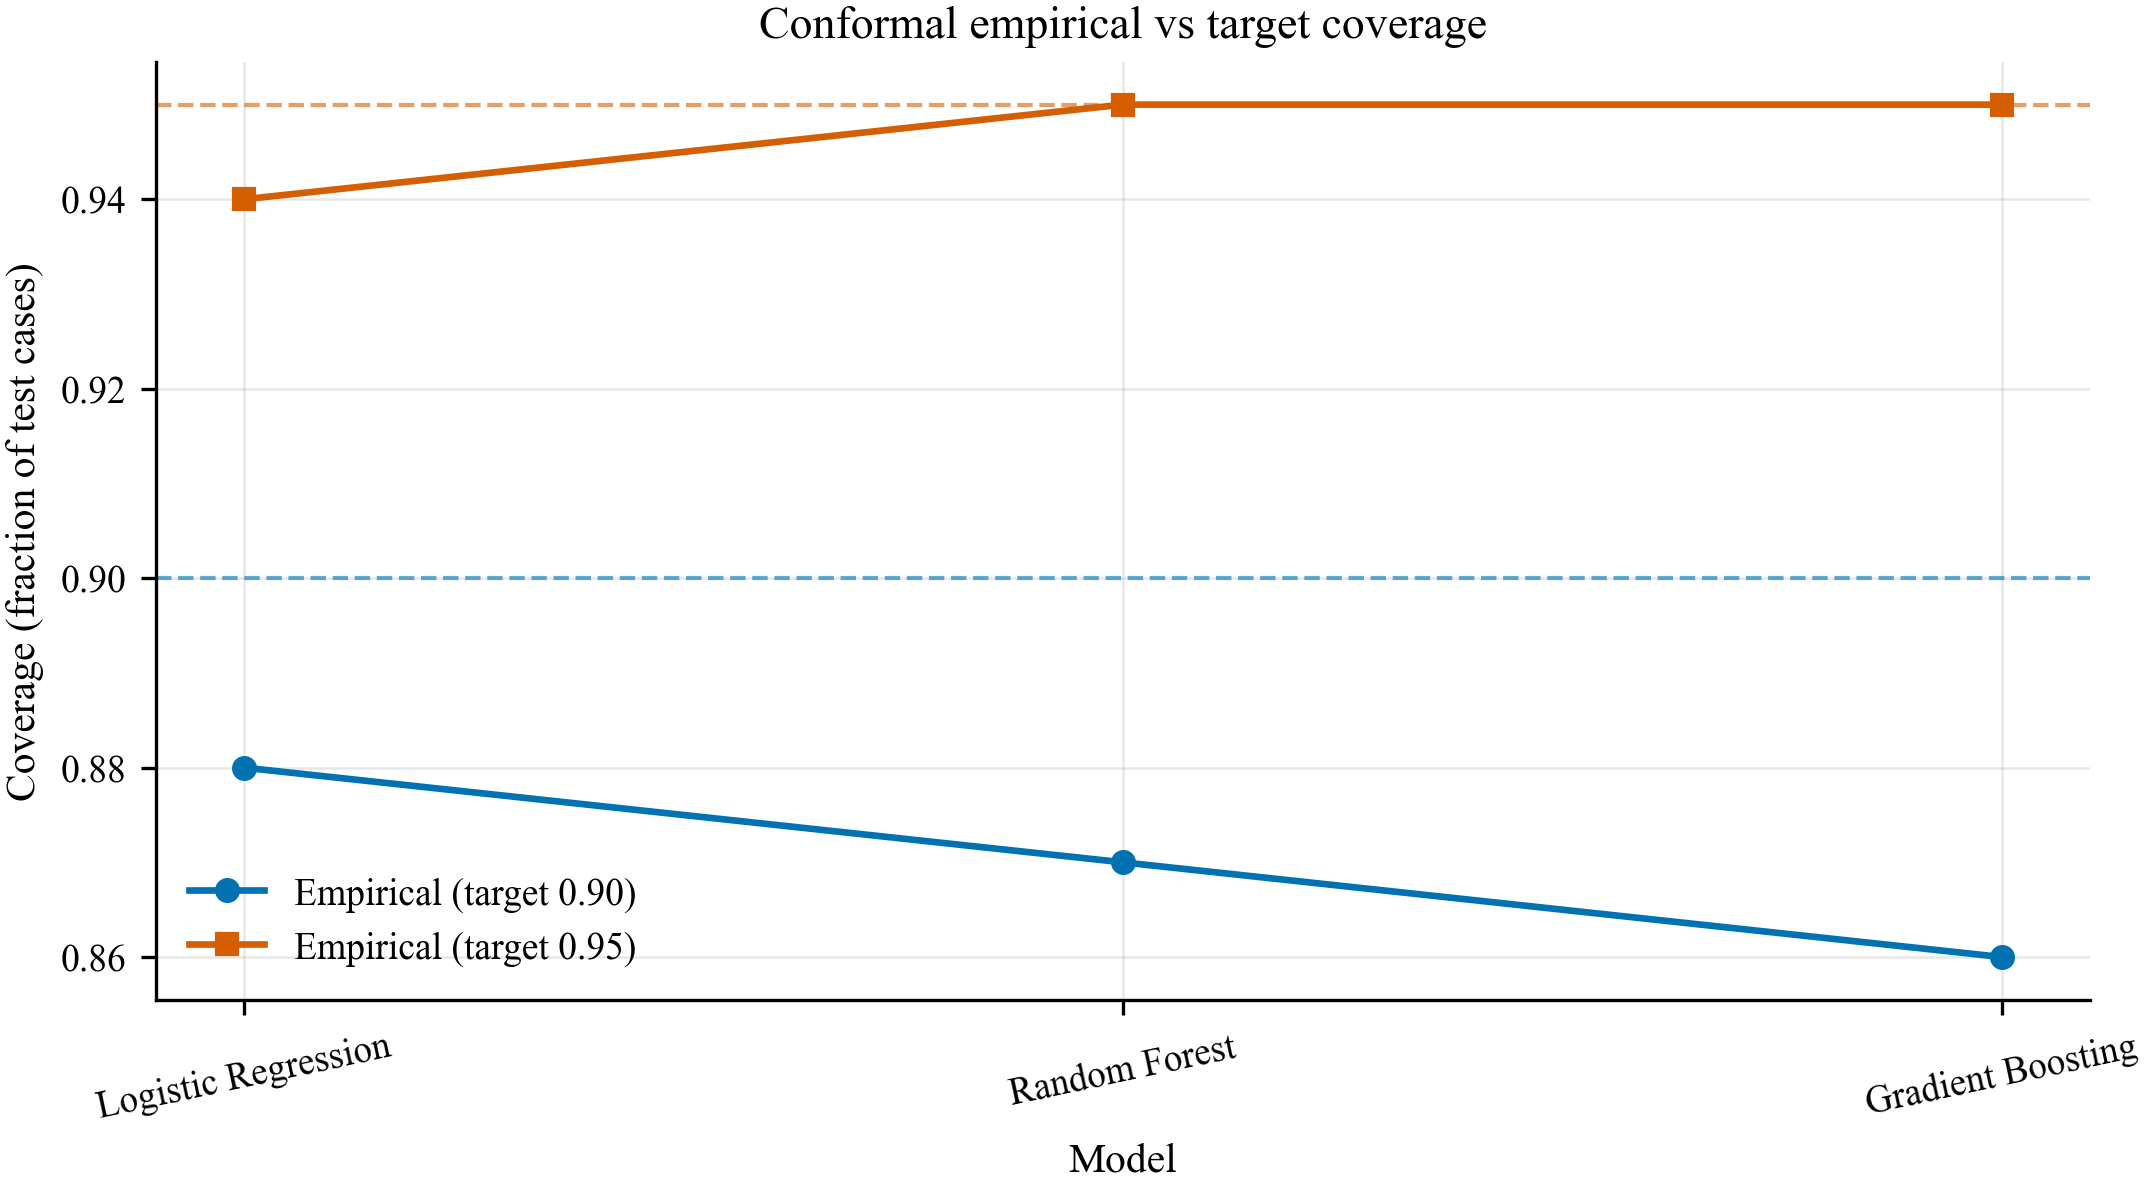
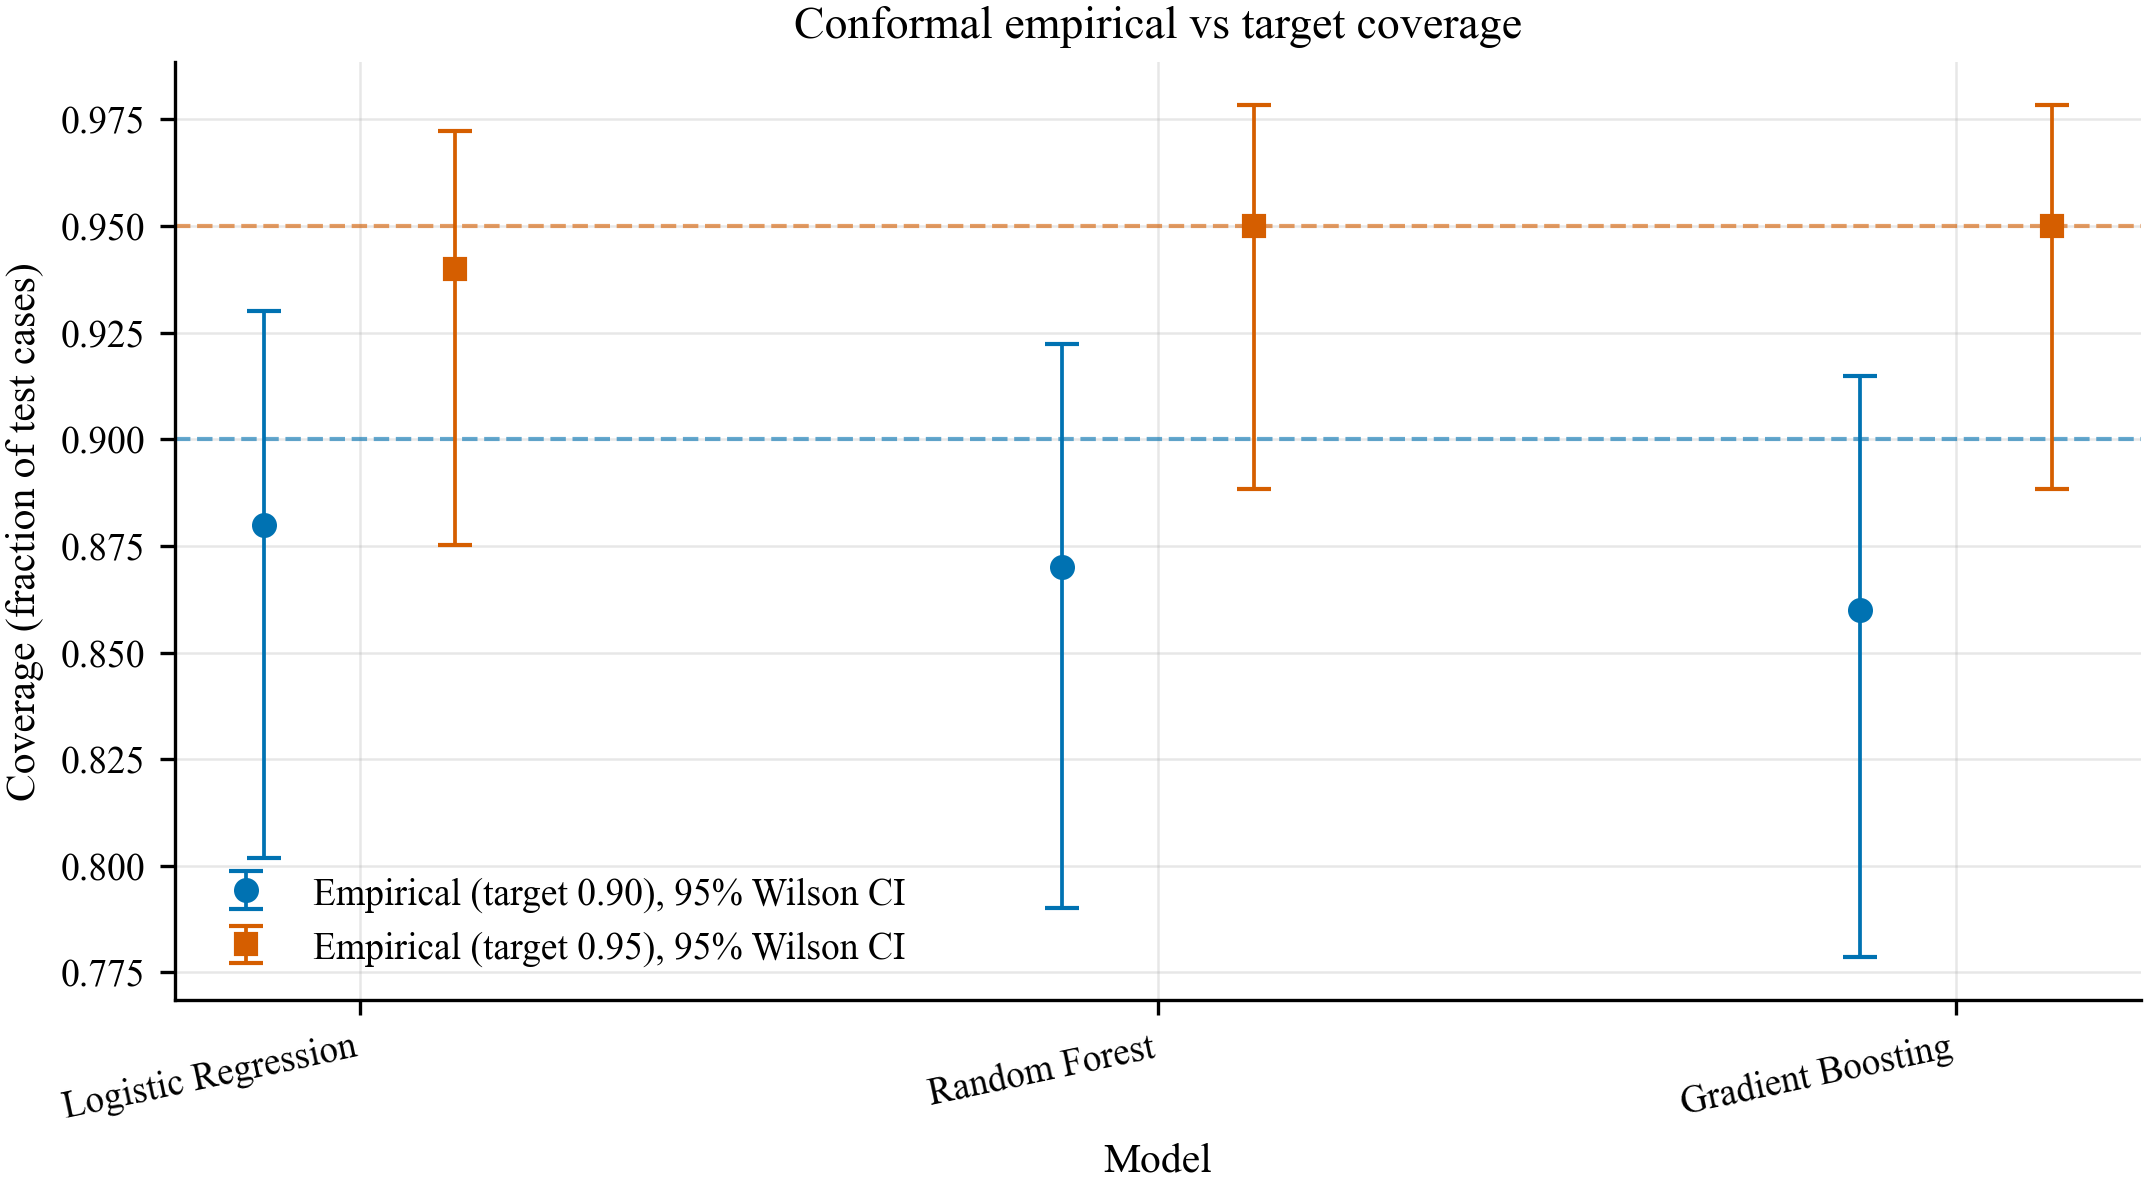
Consolidate shared visualization utility and upgrade charts to publication standard
- Vendor a single shared pubviz.py (palette, style, save, results IO, schematic
  primitives) byte-identical across repos; remove duplicated inline style blocks
- Replace weak chart types (radar, pie/donut, 3D-for-2D, dual-axis) with
  perceptually sound encodings (dot plots, small multiples, aligned panels)
- Add uncertainty (bootstrap / Wilson CIs) to effect and proportion estimates
- Add missing high-value figures (risk-coverage, calibration/reliability,
  decision-curve, behaviour-compliance) computed from results/ (seed 42)
- Annotate honest limitations on figures; regenerate all at 300 dpi (PDF + PNG)

diff --git a/scripts/pubviz.py b/scripts/pubviz.py
@@ -1,0 +1,118 @@
+#!/usr/bin/env python3
+"""
+pubviz.py -- canonical Top-Tier visualization utilities shared, byte-identical,
+by every figure script across the ChatchaiTritham PhD reproducibility repos.
+
+Mirrors _management/FIGURE_STYLE.md. One look across all papers:
+  * Okabe-Ito colour-blind-safe palette (consistent series order)
+  * Times serif fonts, STIX math; spines off; light grid; constrained layout
+  * 300 dpi PNG + vector PDF, tight bbox
+  * helpers: results_dir / load_results / require_results / save_fig
+  * schematic primitives: add_box / arrow
+
+Location-independent: it finds results/ by walking up from the current working
+directory (scripts are run from the repo root). Vendor this file UNCHANGED into
+each repo; an identity gate asserts every copy matches this source.
+
+Data must always be loaded from results/ at run time -- never hardcode numbers.
+"""
+from __future__ import annotations
+
+import json
+from pathlib import Path
+
+import matplotlib as mpl
+import matplotlib.pyplot as plt
+from matplotlib.patches import FancyArrowPatch, FancyBboxPatch
+
+# Color-blind-safe (Okabe-Ito) -- use in this order.
+PALETTE = ["#0072B2", "#D55E00", "#009E73", "#CC79A7",
+           "#E69F00", "#56B4E9", "#000000"]
+
+# Semantic aliases drawn from the same palette (keeps DAGs/bars/schematics consistent).
+C_TREATMENT = PALETTE[0]   # blue
+C_OUTCOME = PALETTE[1]     # vermillion
+C_CONFOUNDER = PALETTE[4]  # orange
+C_MEDIATOR = PALETTE[2]    # bluish green
+C_NEUTRAL = "#555555"      # grey -- naive / reference / baseline
+
+
+def apply_pub_style():
+    """Apply the canonical publication rcParams (idempotent)."""
+    mpl.rcParams.update({
+        "figure.dpi": 150, "savefig.dpi": 300, "savefig.bbox": "tight",
+        "savefig.pad_inches": 0.02,
+        "font.family": "serif",
+        "font.serif": ["Times New Roman", "Times", "DejaVu Serif"],
+        "mathtext.fontset": "stix", "pdf.fonttype": 42, "ps.fonttype": 42,
+        "font.size": 10, "axes.titlesize": 11, "axes.labelsize": 10,
+        "xtick.labelsize": 9, "ytick.labelsize": 9, "legend.fontsize": 9,
+        "axes.spines.top": False, "axes.spines.right": False,
+        "axes.linewidth": 0.8, "axes.grid": True, "axes.axisbelow": True,
+        "grid.alpha": 0.3, "grid.linewidth": 0.6,
+        "lines.linewidth": 1.6, "lines.markersize": 5,
+        "legend.frameon": False, "figure.constrained_layout.use": True,
+        "axes.prop_cycle": mpl.cycler(color=PALETTE),
+    })
+
+
+def repo_root(start: Path | None = None) -> Path:
+    """Nearest ancestor containing results/ or .git (falls back to cwd)."""
+    here = Path(start or Path.cwd()).resolve()
+    for d in (here, *here.parents):
+        if (d / "results").is_dir() or (d / ".git").exists():
+            return d
+    return Path.cwd().resolve()
+
+
+def results_dir(start: Path | None = None) -> Path:
+    return repo_root(start) / "results"
+
+
+def load_results(name: str, start: Path | None = None):
+    """Load a results/ artifact by file name. .json -> obj; .csv -> list[dict]."""
+    p = results_dir(start) / name
+    if not p.exists():
+        raise FileNotFoundError(
+            f"missing results/{name} -- run the repo's run_all.py/run_eval.py "
+            f"(seed 42) to regenerate results/ before plotting.")
+    if p.suffix == ".json":
+        return json.loads(p.read_text(encoding="utf-8"))
+    import csv
+    with p.open(encoding="utf-8", newline="") as fh:
+        return list(csv.DictReader(fh))
+
+
+def require_results(*names: str, start: Path | None = None) -> None:
+    """Fail early with a clear hint if any results/ artifact is absent."""
+    missing = [n for n in names if not (results_dir(start) / n).exists()]
+    if missing:
+        raise FileNotFoundError(
+            "missing results artifacts: " + ", ".join(missing) +
+            " -- run the repo's reproduction script (seed 42) first.")
+
+
+def save_fig(fig, basename: str, out_dir="figures"):
+    """Save matched vector .pdf + 300-dpi .png (tight bbox, white bg)."""
+    out = Path(out_dir)
+    out.mkdir(parents=True, exist_ok=True)
+    for ext in ("pdf", "png"):
+        fig.savefig(out / f"{basename}.{ext}", bbox_inches="tight", facecolor="white")
+    print(f"saved: {basename}.pdf / .png  ->  {out}")
+
+
+def add_box(ax, xy, width, height, label, facecolor="#eef2f7",
+            edgecolor=PALETTE[0], textcolor="#1a1a1a", size=9):
+    """Rounded schematic box with centred label (for architecture diagrams)."""
+    box = FancyBboxPatch(xy, width, height, boxstyle="round,pad=0.012,rounding_size=0.02",
+                         linewidth=1.1, edgecolor=edgecolor, facecolor=facecolor, zorder=2)
+    ax.add_patch(box)
+    ax.text(xy[0] + width / 2, xy[1] + height / 2, label, ha="center", va="center",
+            fontsize=size, color=textcolor, zorder=3)
+    return box
+
+
+def arrow(ax, start, end, color="#555555", lw=1.35):
+    """Schematic arrow that shrinks off the box edges (no head-in-text overlap)."""
+    ax.add_patch(FancyArrowPatch(start, end, arrowstyle="-|>", mutation_scale=12,
+                                 lw=lw, color=color, shrinkA=4, shrinkB=4, zorder=1))

diff --git a/scripts/generate_results_figures.py b/scripts/generate_results_figures.py
@@ -11,6 +11,11 @@ Run ``python scripts/run_all.py`` first, then::
 
 Outputs (PNG + PDF) into ``figures/results/`` and records data provenance in
 ``figures/results/figure_provenance.csv``.
+
+Styling/IO go through the shared, byte-identical ``pubviz`` module (vendored as
+``scripts/pubviz.py``): ``apply_pub_style`` for the canonical top-tier rcParams,
+``save_fig`` for matched vector PDF + 300-dpi PNG, and ``PALETTE`` for the
+Okabe-Ito colour-blind-safe series order.
 """
 
 from __future__ import annotations
@@ -21,37 +26,15 @@ from pathlib import Path
 import matplotlib
 
 matplotlib.use("Agg")
-import matplotlib as mpl  # noqa: E402
 import matplotlib.pyplot as plt  # noqa: E402
 import numpy as np  # noqa: E402
 import pandas as pd  # noqa: E402
 
+from pubviz import apply_pub_style, save_fig, PALETTE, load_results, results_dir  # noqa: E402
+
 ROOT = Path(__file__).resolve().parents[1]
 RESULTS = ROOT / "results"
 OUTDIR = ROOT / "figures" / "results"
-DPI = 300
-
-# Color-blind-safe (Okabe-Ito) — canonical shared palette, use in this order.
-PALETTE = ["#0072B2", "#D55E00", "#009E73", "#CC79A7", "#E69F00", "#56B4E9", "#000000"]
-
-
-def apply_pub_style() -> None:
-    """Apply the canonical top-tier publication style (shared across all repos)."""
-    mpl.rcParams.update({
-        "figure.dpi": 150, "savefig.dpi": 300, "savefig.bbox": "tight",
-        "savefig.pad_inches": 0.02,
-        "font.family": "serif",
-        "font.serif": ["Times New Roman", "Times", "DejaVu Serif"],
-        "mathtext.fontset": "stix",
-        "font.size": 10, "axes.titlesize": 11, "axes.labelsize": 10,
-        "xtick.labelsize": 9, "ytick.labelsize": 9, "legend.fontsize": 9,
-        "axes.spines.top": False, "axes.spines.right": False,
-        "axes.linewidth": 0.8, "axes.grid": True,
-        "grid.alpha": 0.3, "grid.linewidth": 0.6,
-        "lines.linewidth": 1.6, "lines.markersize": 5,
-        "legend.frameon": False, "figure.constrained_layout.use": True,
-        "axes.prop_cycle": mpl.cycler(color=PALETTE),
-    })
 
 
 def _require(name: str) -> Path:
@@ -63,13 +46,28 @@ def _require(name: str) -> Path:
     return path
 
 
-def _save(fig, stem: str) -> tuple[str, str]:
-    png = OUTDIR / f"{stem}.png"
-    pdf = OUTDIR / f"{stem}.pdf"
-    fig.savefig(png, dpi=DPI, bbox_inches="tight")
-    fig.savefig(pdf, bbox_inches="tight")
+def _emit(fig, stem: str) -> tuple[str, str]:
+    """Save matched PDF + 300-dpi PNG via the shared helper; return repo-relative paths."""
+    save_fig(fig, stem, out_dir=OUTDIR)
     plt.close(fig)
-    return str(png.relative_to(ROOT)), str(pdf.relative_to(ROOT))
+    png = (OUTDIR / f"{stem}.png").relative_to(ROOT)
+    pdf = (OUTDIR / f"{stem}.pdf").relative_to(ROOT)
+    return str(png), str(pdf)
+
+
+def _wilson_ci(p: float, n: int, z: float = 1.96) -> tuple[float, float]:
+    """Wilson score interval for a proportion p estimated from n trials.
+
+    Coverage is the fraction of n_test cases covered, so its sampling
+    uncertainty is binomial; the Wilson interval is the standard, honest band
+    for a proportion. n is read from the computed results, never hardcoded.
+    """
+    if n <= 0:
+        return p, p
+    denom = 1.0 + z * z / n
+    center = (p + z * z / (2 * n)) / denom
+    half = (z * np.sqrt(p * (1 - p) / n + z * z / (4 * n * n))) / denom
+    return max(0.0, center - half), min(1.0, center + half)
 
 
 def fig_auroc_static_vs_temporal(prov: list) -> None:
@@ -95,7 +93,7 @@ def fig_auroc_static_vs_temporal(prov: list) -> None:
     ax.legend(loc="lower right")
     ax.grid(True, axis="y")
     ax.set_axisbelow(True)
-    png, pdf = _save(fig, "fig_auroc_static_vs_temporal")
+    png, pdf = _emit(fig, "fig_auroc_static_vs_temporal")
     prov.append(("F-AUROC", png, pdf, "results/model_metrics.csv"))
 
 
@@ -116,7 +114,7 @@ def fig_calibration(prov: list) -> None:
     ax.legend(loc="best")
     ax.grid(True)
     ax.set_axisbelow(True)
-    png, pdf = _save(fig, "fig_calibration_ece")
+    png, pdf = _emit(fig, "fig_calibration_ece")
     prov.append(("F-ECE", png, pdf, "results/model_metrics.csv"))
 
 
@@ -137,32 +135,54 @@ def fig_decision_curve(prov: list) -> None:
     ax.legend(loc="best")
     ax.grid(True, axis="y")
     ax.set_axisbelow(True)
-    png, pdf = _save(fig, "fig_decision_curve")
+    png, pdf = _emit(fig, "fig_decision_curve")
     prov.append(("F-DCA", png, pdf, "results/decision_curve.csv"))
 
 
 def fig_conformal(prov: list) -> None:
     df = pd.read_csv(_require("conformal.csv"))
+    # n_test per model backs the binomial (Wilson) CI on empirical coverage;
+    # read from the computed metrics table, never hardcoded.
+    metrics = pd.read_csv(_require("model_metrics.csv"))
+    n_by_model = (
+        metrics.groupby("model")["n_test"].max().astype(int).to_dict()
+    )
+
     fig, ax = plt.subplots(figsize=(7.2, 4.0))
     markers = ("o", "s", "^", "D")
-    for i, target in enumerate(sorted(df["target_coverage"].unique())):
-        sub = df[df["target_coverage"] == target]
+    targets = sorted(df["target_coverage"].unique())
+    models = list(dict.fromkeys(df["model"]))
+    labels = [m.replace("_", " ").title() for m in models]
+    xpos = np.arange(len(models))
+    # small horizontal offset per target so CI bars do not overlap
+    offsets = np.linspace(-0.12, 0.12, len(targets)) if len(targets) > 1 else [0.0]
+
+    for i, target in enumerate(targets):
+        sub = df[df["target_coverage"] == target].set_index("model")
         color = PALETTE[i % len(PALETTE)]
-        labels = [m.replace("_", " ").title() for m in sub["model"]]
-        ax.plot(
-            labels, sub["empirical_coverage"], marker=markers[i % len(markers)],
-            color=color, label=f"Empirical (target {target:.2f})",
+        emp = np.array([sub.loc[m, "empirical_coverage"] for m in models], float)
+        lo = np.empty_like(emp)
+        hi = np.empty_like(emp)
+        for j, m in enumerate(models):
+            l, h = _wilson_ci(emp[j], n_by_model.get(m, 0))
+            lo[j], hi[j] = l, h
+        yerr = np.vstack([emp - lo, hi - emp])
+        ax.errorbar(
+            xpos + offsets[i], emp, yerr=yerr, marker=markers[i % len(markers)],
+            ls="none", color=color, capsize=4, elinewidth=0.9,
+            label=f"Empirical (target {target:.2f}), 95% Wilson CI",
         )
         ax.axhline(target, ls="--", lw=1.0, color=color, alpha=0.6)
+    ax.set_xticks(xpos)
+    ax.set_xticklabels(labels, rotation=12, ha="right")
     ax.set_xlabel("Model")
     ax.set_ylabel("Coverage (fraction of test cases)")
     ax.set_title("Conformal empirical vs target coverage")
-    ax.tick_params(axis="x", rotation=12)
     ax.legend(loc="best")
     ax.grid(True)
     ax.set_axisbelow(True)
-    png, pdf = _save(fig, "fig_conformal_coverage")
-    prov.append(("F-CONF", png, pdf, "results/conformal.csv"))
+    png, pdf = _emit(fig, "fig_conformal_coverage")
+    prov.append(("F-CONF", png, pdf, "results/conformal.csv; results/model_metrics.csv"))
 
 
 def fig_counterfactual_delay(prov: list) -> None:
@@ -185,7 +205,7 @@ def fig_counterfactual_delay(prov: list) -> None:
     ax.legend(loc="best")
     ax.grid(True)
     ax.set_axisbelow(True)
-    png, pdf = _save(fig, "fig_counterfactual_delay")
+    png, pdf = _emit(fig, "fig_counterfactual_delay")
     prov.append(("F-CF", png, pdf, "results/counterfactual_delay.csv"))
 
 